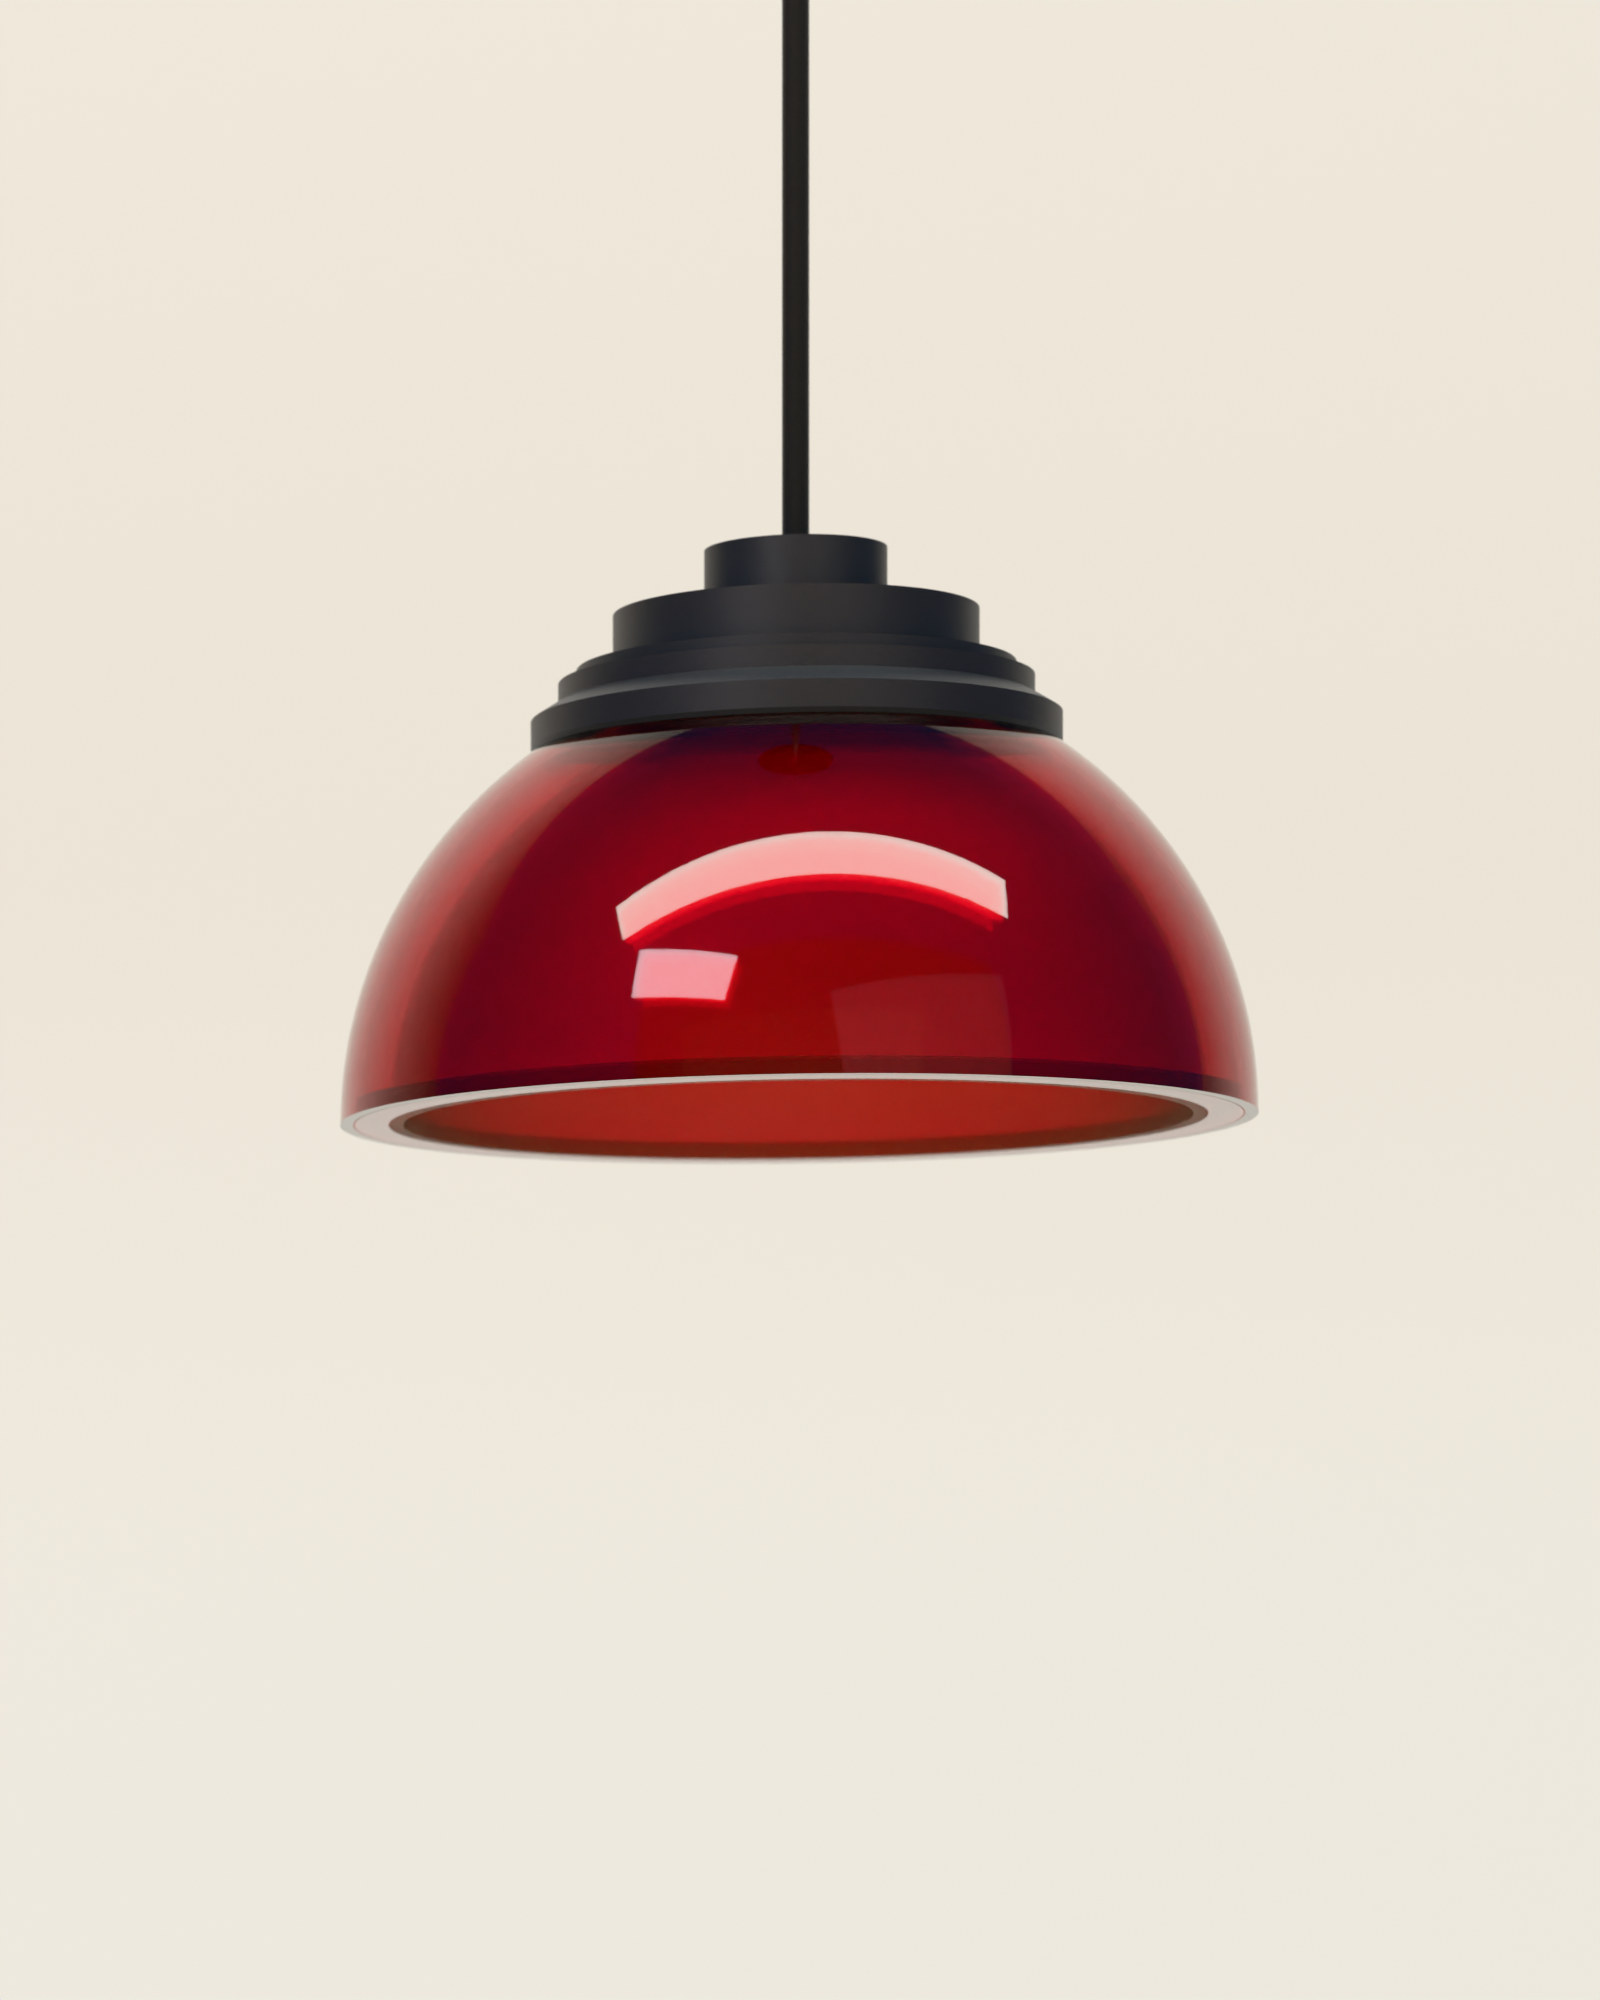
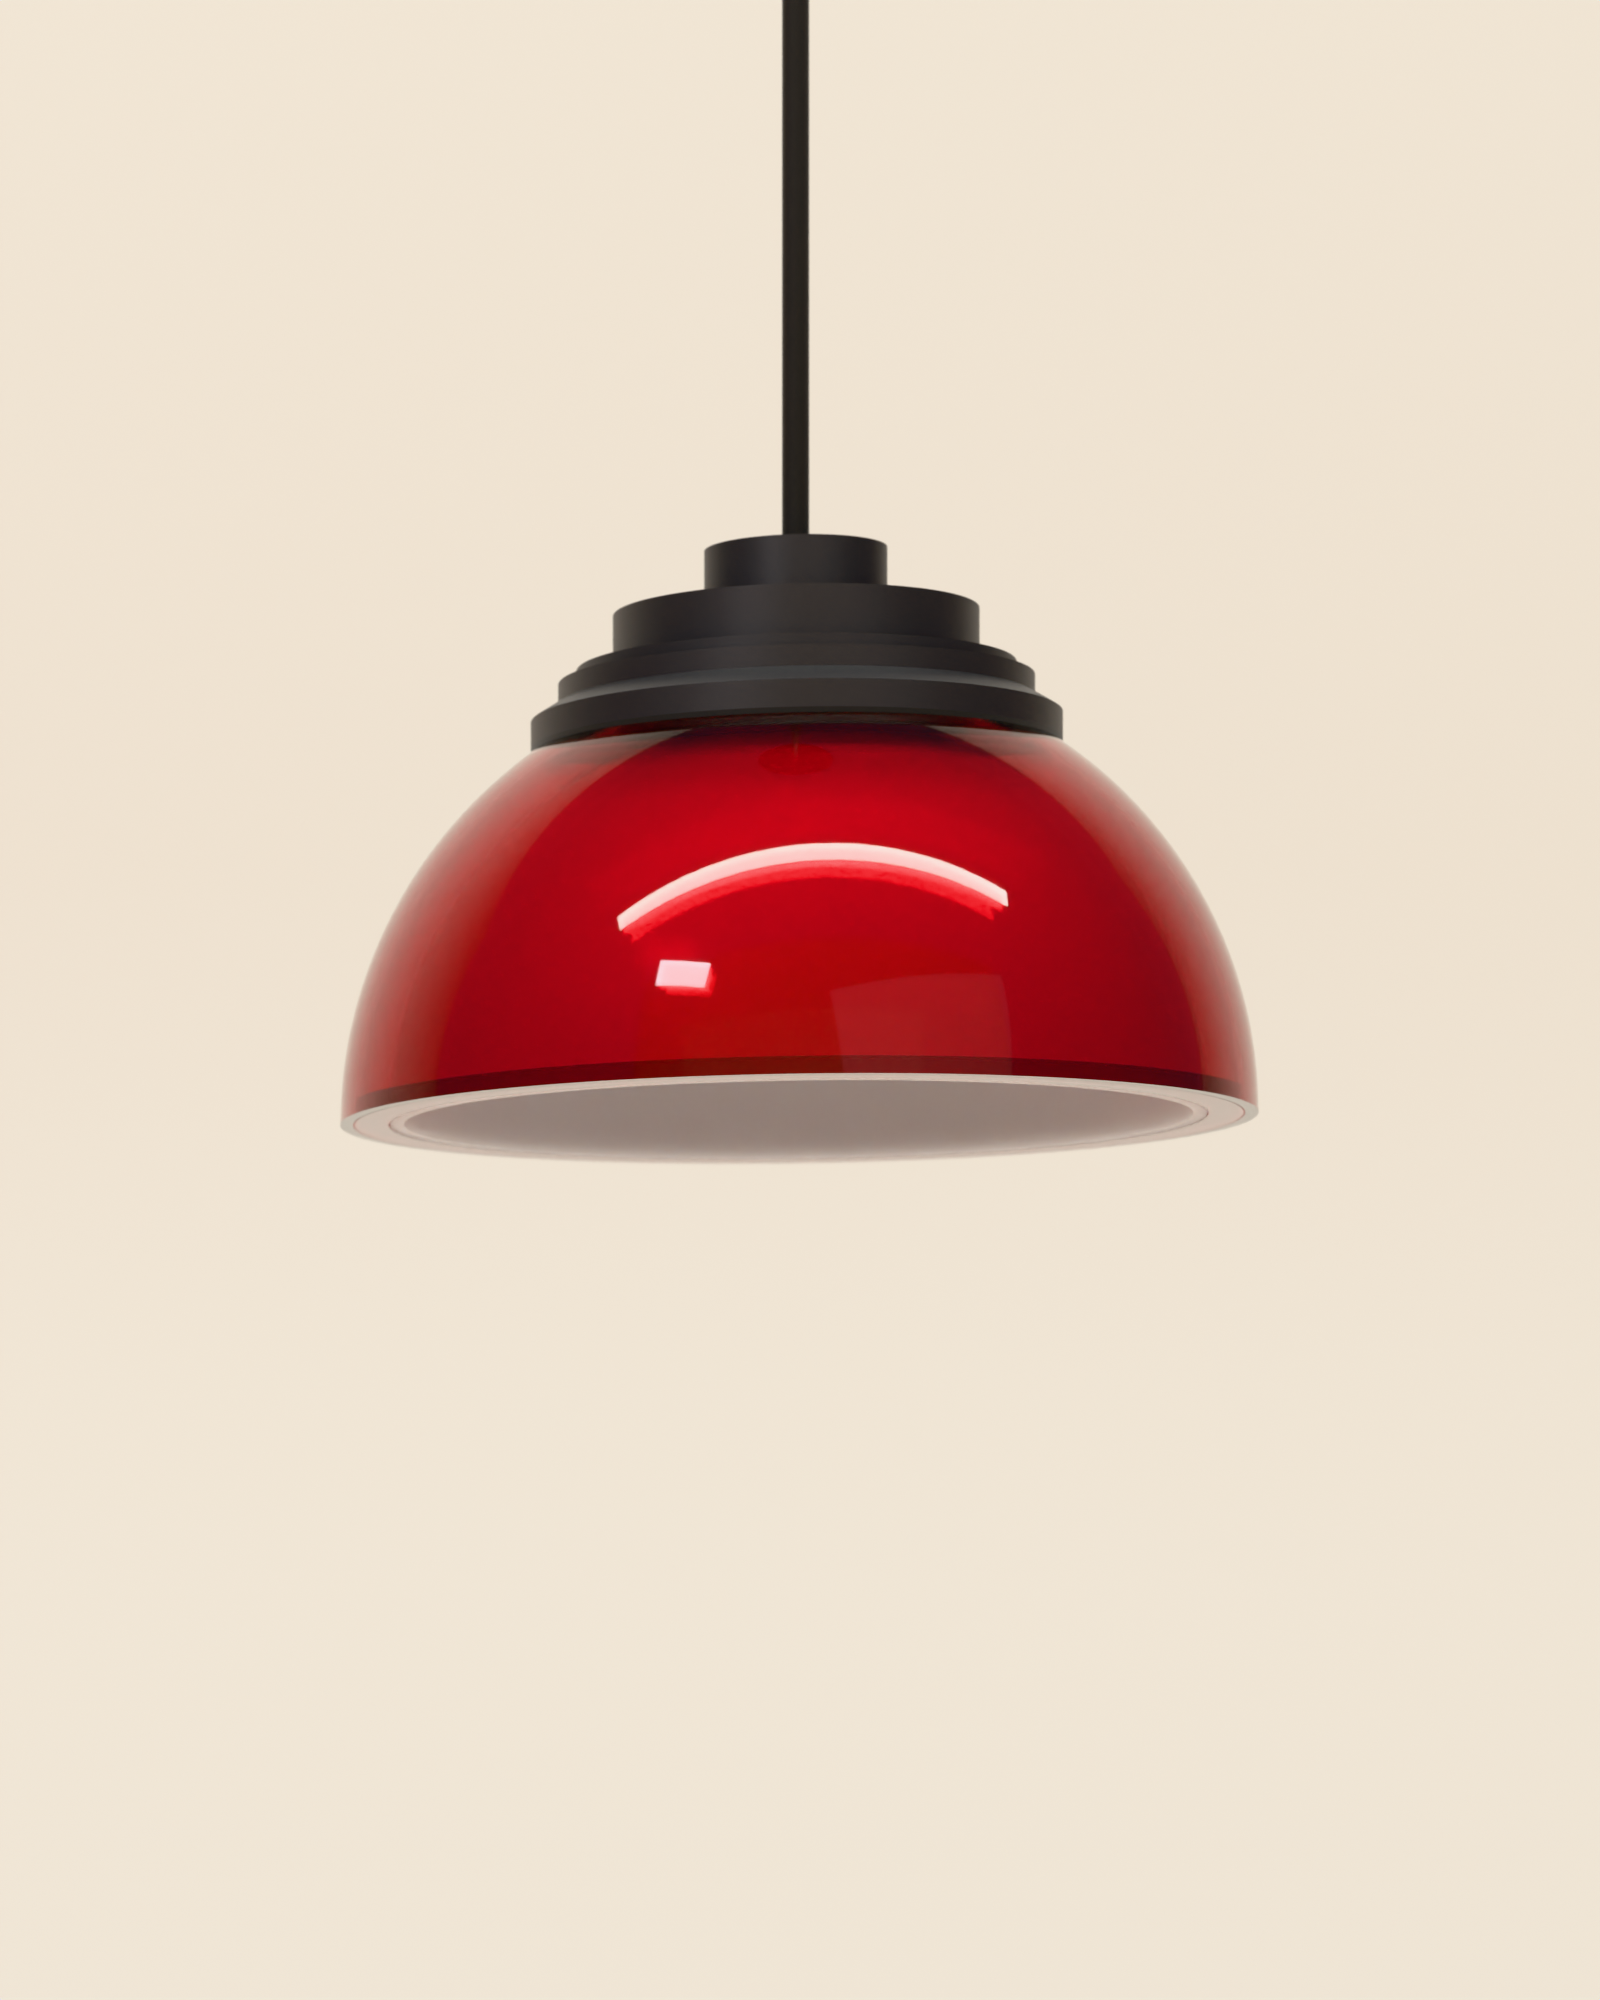
Hemisphere unlit Ember, native 4:5, the 22:58 gate: the sky at the 4300 K white point's colour (the cool fill: a neutral RGB grey read blue), the opal liner a white opal (the kit's was 85 % clear: the hub showed under the cap), a white card under the lamp out of frame (the mouth's inside L* 54), the
Claude-Session: https://claude.ai/code/session_01VCPNDaozJgar2mVTSvis3A

Changed region(s): [[0.25, 0.341, 0.75, 0.589]]

diff --git a/spinoffs/barkhorn/companions/lamps_cordless.py b/spinoffs/barkhorn/companions/lamps_cordless.py
@@ -203,7 +203,23 @@ def main():
             # point 1: the rose over 36 % of the dome's face was the overhead wash's reflection (the probe: off, 1 %; the
             # bounce or the key off, unchanged); as a 6 x 0.8 strip, its irradiance on the set held, it covers 12.6 %
             # and the face holds L* 27 (proxies/probe-*.png)
-            u['lights']['bgwash']['size_m'] = [float(v) for v in os.environ.get('WASH_SIZE', '6,0.8').split(',')]
+            u['lights']['bgwash']['size_m'] = [float(v) for v in os.environ.get('WASH_SIZE', '6,0.3').split(',')]
+            # the 22:58 gate:
+            # 1. the cool fill was the sky: a neutral RGB grey reads blue under the 4300 K white point. The sky takes the
+            #    4300 K blackbody's colour at its old luminance (neutral in the picture)
+            u['sky'] = {**u['sky'], 'zenith': '#F3CBAB', 'horizon': '#F6CEAE', 'ground': '#F0C8A8'}
+            # 2 and 3. the kit's opal liner (`skin`) was 85 % clear: the hub and gland showed through it under the cap,
+            #    and the mouth's inside read orange-red. It is a white opal, diffusing, as drawn
+            dome_ = next(p for p in u['set']['props'] if p.get('module') == 'earf_moon' and p.get('fn') == 'dome')
+            dome_.setdefault('materials', {})['liner'] = {**dome_['materials'].get('liner', {}), 'clear': 0.05, 'color': '#F4F2EE'}
+            # 4. the arc and key reflections as white glints: the wash strip 6 x 0.3 (was 0.8), the key half its size,
+            #    each at the same irradiance on the set (its output held)
+            k_ = u['lights']['key']; k_['size_m'] = [v / 2 for v in k_['size_m']]
+            # 3. the mouth's inside lit from below by the oak (warm): a white card on the table under the lamp, out
+            #    of frame, a real neutral bounce, so the white liner reads pale (L* 55-65), well under the wall
+            dx_, dy_, dz_ = dome_['spots'][0]
+            u['set']['props'].append({'kind': 'kit', 'shape': 'box', 'material': 'paper', 'color': '#F2F0EC',
+                                      'size': [float(os.environ.get('CARD_W', '0.9')), 0.9, 0.004], 'position': [dx_, dy_, 0.04]})
             if os.environ.get('WARM_K'):           # the 21:44 test: the cool sources warmed (key, fill, strip)
                 for k_ in ('key', 'fill', 'edges'):
                     if k_ in u['lights']:
